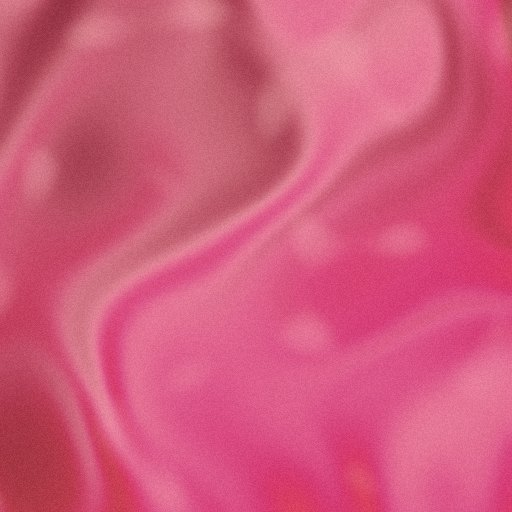
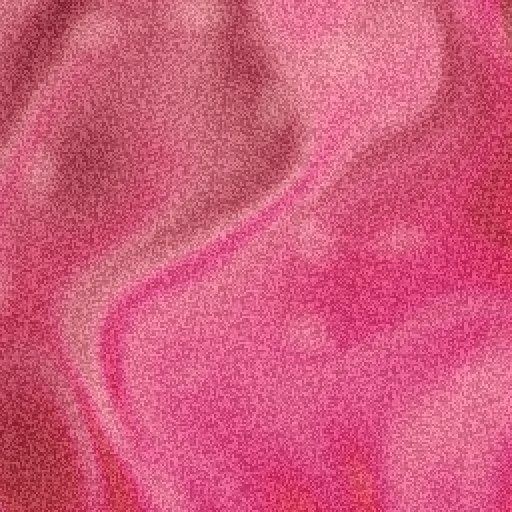
feat(v1.2): 폴더 배경 그레인을 세게
앱 배경의 그레인(0.06)을 그대로 쓰니 폴더에서는 거의 안 보였다. 앱 배경은 본문 뒤에
깔려 거슬리면 안 되지만, **폴더 박스는 손바닥만 해서 결이 없으면 그냥 색면**이다.
0.24로 올렸다.

⚠ **2px 블록으로 굵게 찍는다.** 512로 찍어 250 남짓에 그리므로 픽셀 단위 노이즈는
축소되며 뭉개져 사라진다 — 굵어야 살아남는다.

용량이 41KB → 83KB로 늘었다(15장 1.2MB). 노이즈는 JPEG가 압축을 못 한다.

`tools/gen-tag-bg.js`에 다시 뽑는 법과 원본 셰이더와의 관계를 적어뒀다 —
`shaders.json`은 베낀 것이라 원본을 고쳐도 따라가지 않는다.

Changed region(s): [[0.0, 0.0, 1.0, 1.0]]

diff --git a/tools/gen-tag-bg.js b/tools/gen-tag-bg.js
@@ -1,3 +1,17 @@
+// 태그 배경 그림 만들기 (v1.2).
+//
+//   cd desktop && npx electron ../tools/gen-tag-bg.js ../frontend/public/tag-bg
+//
+// 앱 배경과 **같은 셰이더**를 색마다 한 번씩 돌려 512px JPEG로 찍는다.
+// 실시간으로 안 돌리는 이유 — 폴더가 열몇 개면 WebGL 컨텍스트가 그만큼 필요한데
+// 브라우저가 개수를 세는 자원이라 앞의 것이 강제로 사라진다(context lost).
+//
+// ⚠ 셰이더는 `tools/shaders.json`에 **베껴져 있다.** 원본(frontend/src/lib/fluidShader.ts)을
+// 고치면 여기도 다시 뽑아야 한다 — 자동으로 안 따라간다. 태그 배경용으로 둘을 바꿔뒀다:
+//   · 무지개 순회 제거 — 시간에 따라 색조가 돌면 태그 색이 아니게 된다
+//   · 그레인 0.06 → 0.24, 2px 블록 — 폴더는 손바닥만 해서 결이 없으면 그냥 색면이다
+//
+// 색 팔레트는 `tools/tones.json`. 태그 색을 고치면 그것도 다시 만들어야 한다.
 const { app, BrowserWindow } = require("electron");
 const fs = require("fs");
 const path = require("path");
